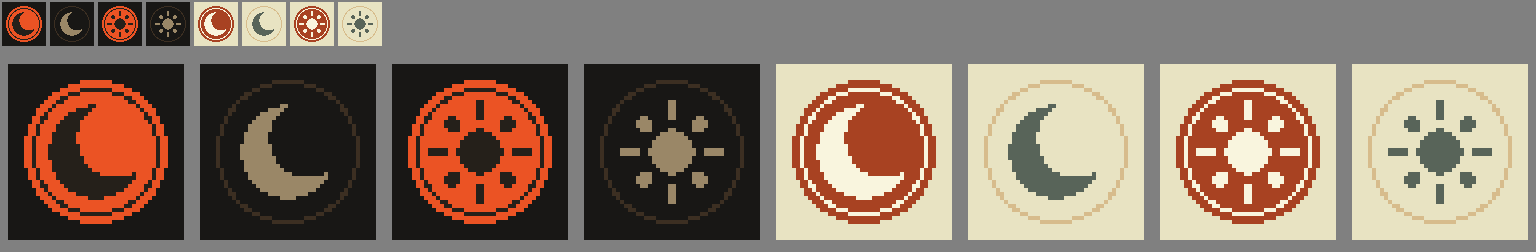
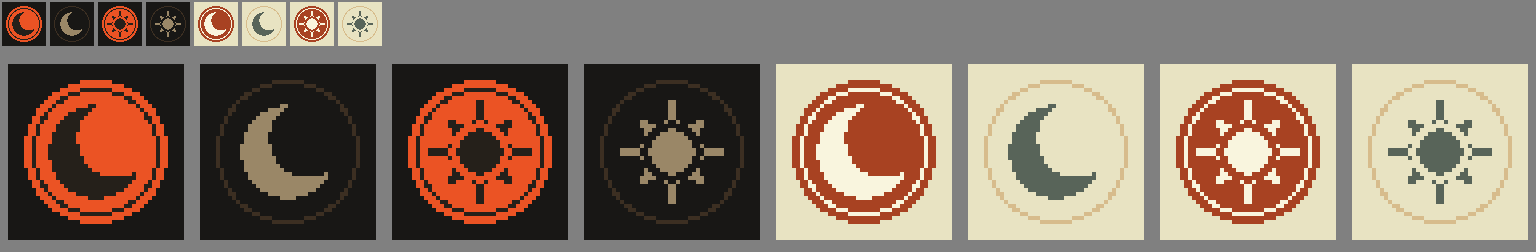
T19k-4 (c) sketch: the sun's rays as wedges on the pixel stair

diff --git a/.claude/notes/design-r27/crests-t19k4c.py b/.claude/notes/design-r27/crests-t19k4c.py
@@ -21,17 +21,21 @@ def moon():
 
 
 def sun():
-    # the light mood: a disc and eight rays between two circles, every second one longer
+    # the light mood: a disc and eight wedge rays — each a polar wedge 3.4 px at its root, 1 px
+    # at its tip, rasterised by pixel centres (the diagonals land on the 45° stair, never rounded)
     g = [[disc(x, y, C, C, 5.6) for x in range(N)] for y in range(N)]
-    for k in range(8):
-        a = k * math.pi / 4
-        r0, r1 = 8.2, (12.6 if k % 2 == 0 else 11.0)
-        for t in range(0, 101):
-            r = r0 + (r1 - r0) * t / 100
-            for w in (-0.9, 0, 0.9):
-                x = C + r * math.cos(a) - w * math.sin(a)
-                y = C + r * math.sin(a) + w * math.cos(a)
-                g[round(y)][round(x)] = True
+    for y in range(N):
+        for x in range(N):
+            r = math.hypot(x - C, y - C)
+            a = math.atan2(y - C, x - C)
+            for k in range(8):
+                r0, r1 = 7.6, (12.9 if k % 2 == 0 else 11.4)
+                if not r0 <= r <= r1:
+                    continue
+                w = 3.4 + (1.0 - 3.4) * (r - r0) / (r1 - r0)
+                d = abs((a - k * math.pi / 4 + math.pi) % (2 * math.pi) - math.pi)
+                if r * math.sin(min(d, math.pi / 2)) <= w / 2 and d < math.pi / 2:
+                    g[y][x] = True
     return g
 
 

diff --git a/.claude/notes/grill-r27.md b/.claude/notes/grill-r27.md
@@ -145,3 +145,8 @@ gear or a flower — redo with wedge rays (each a triangle 3 px at its root, 1 a
 diagonals drawn by hand on the 45° stair) or the kamon "hi" (a disc in a ring of 16 short
 strokes). Rule found: at 28 px a diagonal stroke needs an odd width drawn on the pixel stair,
 never a rounded rotated bar.
+Sun, second try (11:29): eight polar wedges (3.4 px at the root → 1 at the tip, by pixel centres)
+from r 7.6 to 12.9 / 11.4 round a disc r 5.6 — it reads as a sun now, the diagonals on the stair;
+left for the hand pass: the short diagonal wedges read a little as arrowheads (try them as long as
+the straight ones less one, or a 1 px gap ring between the disc and the rays as kamon suns have).
+
